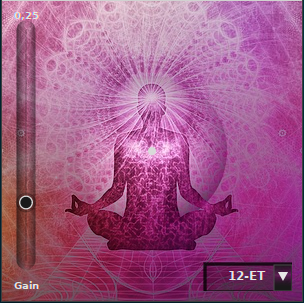
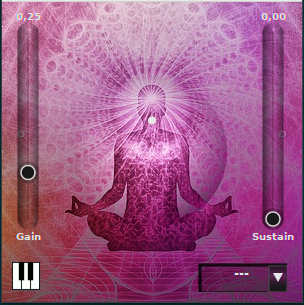
replace infinity button by sustain slider

diff --git a/Xmonk/gui/Xmonk_x11ui.c b/Xmonk/gui/Xmonk_x11ui.c
@@ -26,7 +26,6 @@
 ----------------------------------------------------------------------*/
 // png's linked in as binarys
 EXTLD(mandala_png)
-EXTLD(sustain_png)
 
 // main window struct
 typedef struct {
@@ -331,7 +330,8 @@ static LV2UI_Handle instantiate(const struct _LV2UI_Descriptor * descriptor,
     ui->win->func.expose_callback = draw_window;
 
     // create a slider widget
-    ui->widget = add_vslider(ui->win, "Gain", 5, 10, 40, 280);
+    ui->widget = add_vslider(ui->win, "Gain", 5, 10, 44, 240);
+    ui->widget->scale.gravity = CENTER;
     // store the port index in the Widget_t data field
     ui->widget->data = GAIN;
     // store a pointer to the X11_UI struct in the parent_struct Widget_t field
@@ -341,18 +341,19 @@ static LV2UI_Handle instantiate(const struct _LV2UI_Descriptor * descriptor,
     // connect the value changed callback with the write_function
     ui->widget->func.value_changed_callback = value_changed;
 
-    ui->key_button = add_image_toggle_button(ui->win, "Keyboard", 260, 10, 30, 30);
+    ui->key_button = add_image_toggle_button(ui->win, "Keyboard", 10, 260, 30, 30);
     widget_get_png(ui->key_button, LDVAR(midikeyboard_png));
     ui->key_button->func.value_changed_callback = key_button_callback;
 
-    ui->sustain_button = add_image_toggle_button(ui->win, "", 135, 260, 30, 30);
+    ui->sustain_button = add_vslider(ui->win, "Sustain", 250, 10, 44, 240);
+    ui->sustain_button->scale.gravity = CENTER;
+    set_adjustment(ui->sustain_button->adj,0.0, 0.25, 0.0, 1.0, 0.005, CL_CONTINUOS);
     ui->sustain_button->parent_struct = ui;
     ui->sustain_button->data = SUSTAIN;
-    widget_get_png(ui->sustain_button, LDVAR(sustain_png));
     ui->sustain_button->func.value_changed_callback = sustain_button_callback;
 
     // create a combobox widget
-    ui->button = add_combobox(ui->win, "", 200, 260, 90, 30);
+    ui->button = add_combobox(ui->win, "", 195, 260, 90, 30);
     combobox_add_entry(ui->button,"---");
     combobox_add_entry(ui->button,"12-ET");
     combobox_add_entry(ui->button,"19-ET");

diff --git a/Xmonk/dsp/xmonk.cc b/Xmonk/dsp/xmonk.cc
@@ -117,6 +117,7 @@ private:
 	double fRec8[3];
 	double fRec9[3];
 	double fRec10[3];
+	double fRec11[3];
 	double TET;
 	double ref_freq;
 	double ref_note;
@@ -160,6 +161,7 @@ inline void Dsp::clear_state_f()
 	for (int l7 = 0; (l7 < 3); l7 = (l7 + 1)) fRec8[l7] = 0.0;
 	for (int l8 = 0; (l8 < 3); l8 = (l8 + 1)) fRec9[l8] = 0.0;
 	for (int l9 = 0; (l9 < 3); l9 = (l9 + 1)) fRec10[l9] = 0.0;
+	for (int l10 = 0; (l10 < 3); l10 = (l10 + 1)) fRec11[l10] = 0.0;
 }
 
 void Dsp::clear_state_f_static(Dsp *p)
@@ -250,11 +252,12 @@ void always_inline Dsp::compute(int count, FAUSTFLOAT *output0, FAUSTFLOAT *outp
 	double fSlow0 = int(fCheckbox1) ? double(ref_freq * pow(2.0, (double(int(fHslider0- ref_note))/TET))) :
 		double(ref_freq * pow(2.0, (fHslider0- ref_note)/TET));
 
-	int panic_gate = int(fCheckbox2 * fCheckbox3);
-	double gate = panic_gate ?  1.0 : std::min<double>(1.0, double(fCheckbox0));
+	int panic_gate = int(fCheckbox0 * fCheckbox3);
+	double gate = panic_gate ?  1.0 : std::max<double>(0.0,std::min<double>(1.0, double(fCheckbox0)+fRec11[2]))* fCheckbox3;
 	double fSlow1 = (fConst3 * (double(fHslider1)*0.1 *gate));
 	double fSlow2 = (0.0010000000000000009 * double(fHslider2));
 	for (int i = 0; (i < count); i = (i + 1)) {
+		fRec11[0] = panic_gate ? 1.0 : (fRec11[2] - (0.0002 - fCheckbox2*0.0002));
 		fRec1[0] = (fConst1 + (fRec1[1] - std::floor((fConst1 + fRec1[1]))));
 		double fTemp0 = (fSlow0 * ((0.013000000000000001 * ftbl0mydspSIG0[int((65536.0 * fRec1[0]))]) + 1.0));
 		double fTemp1 = ((0.003666666666666667 * (400.0 - fTemp0)) + 3.0);
@@ -395,6 +398,8 @@ void always_inline Dsp::compute(int count, FAUSTFLOAT *output0, FAUSTFLOAT *outp
 		fRec9[1] = fRec9[0];
 		fRec10[2] = fRec10[1];
 		fRec10[1] = fRec10[0];
+		fRec11[2] = fRec11[1];
+		fRec11[1] = fRec11[0];
 	}
 #undef fHslider0
 #undef fHslider1
